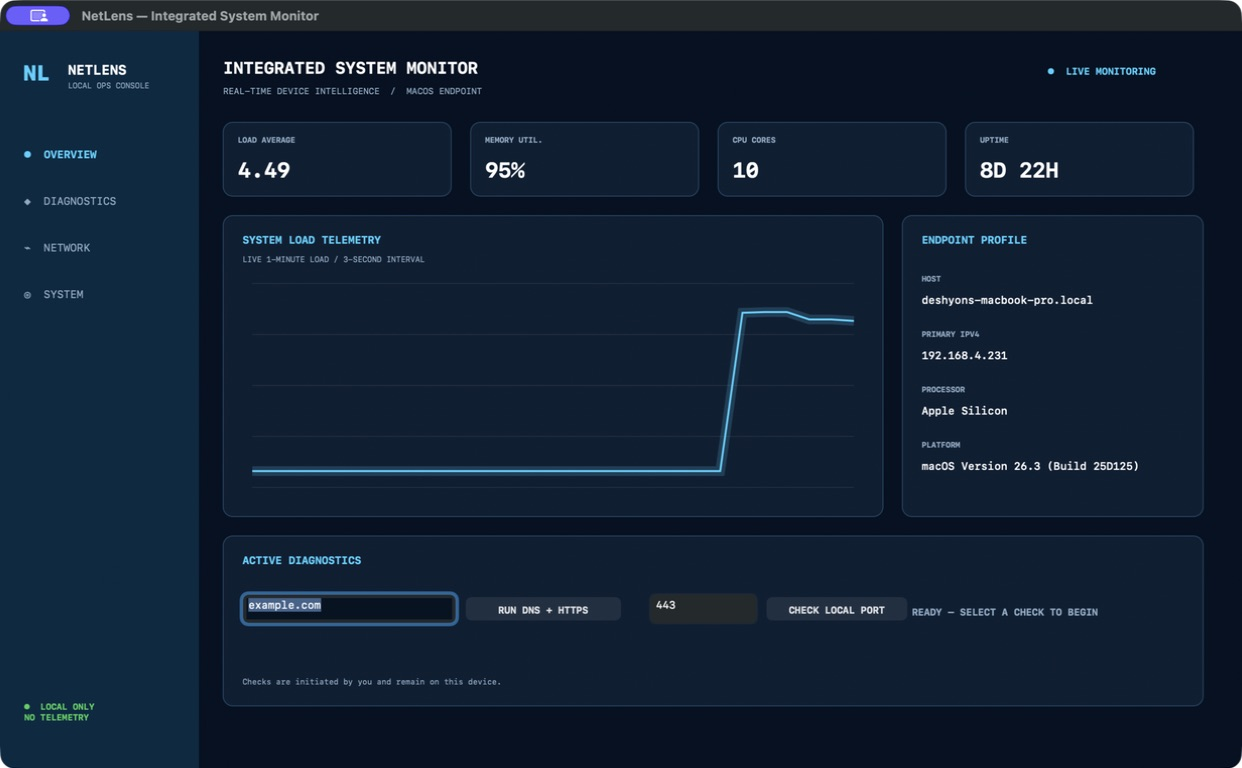
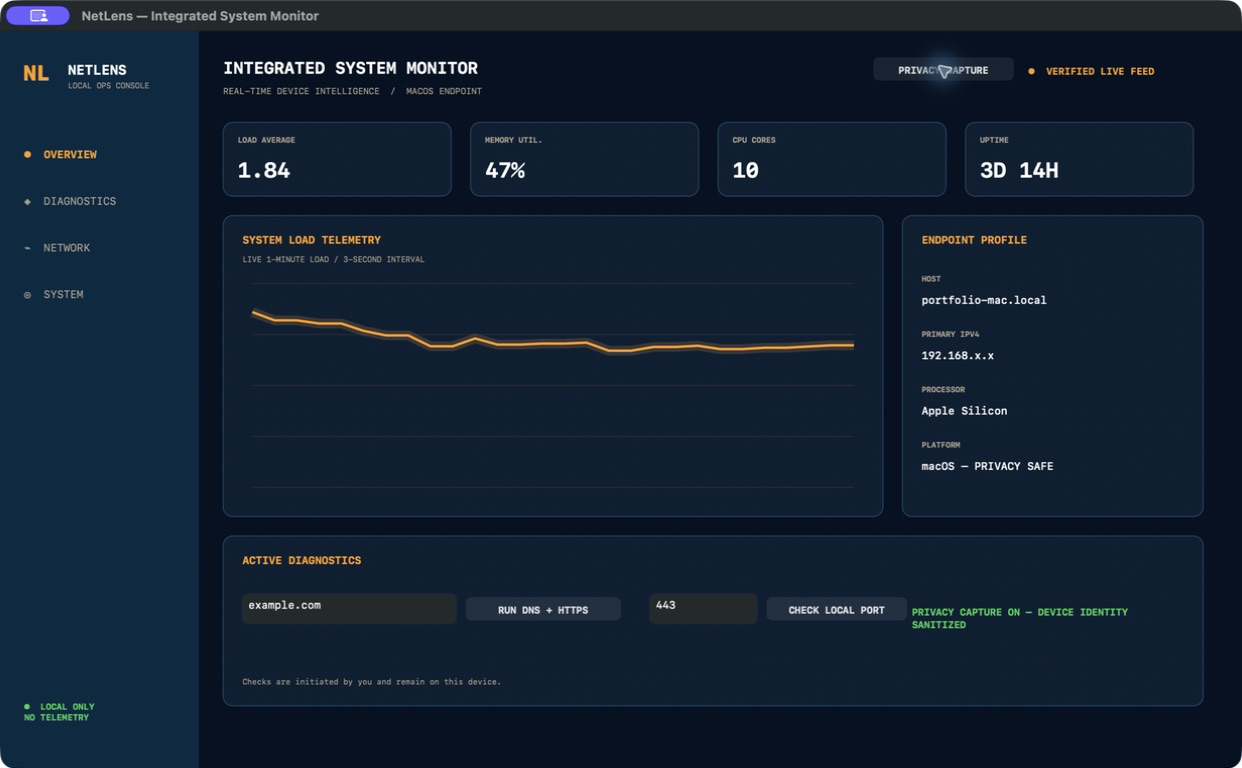
Polish NetLens with secure amber boot and safe captures

diff --git a/Sources/NetLens/main.m b/Sources/NetLens/main.m
@@ -30,11 +30,48 @@ static double MemoryUsage(void) {
     return MIN(used / (double)[NSProcessInfo processInfo].physicalMemory, 1.0);
 }
 
+@interface BootView : NSView
+@property NSImage *image;
+@property CGFloat progress;
+@property NSString *phase;
+@end
+
+@implementation BootView
+- (BOOL)isFlipped { return YES; }
+- (instancetype)initWithFrame:(NSRect)frame {
+    if ((self=[super initWithFrame:frame])) {
+        NSString *path=[[NSBundle mainBundle] pathForResource:@"boot-core" ofType:@"png"];
+        _image=[[NSImage alloc] initWithContentsOfFile:path];
+        _phase=@"INITIALIZING SECURE CORE";
+    }
+    return self;
+}
+- (void)drawRect:(NSRect)dirty {
+    [[NSColor blackColor] setFill]; NSRectFill(self.bounds);
+    if(self.image) {
+        [self.image drawInRect:self.bounds fromRect:NSZeroRect operation:NSCompositingOperationSourceOver fraction:.72 respectFlipped:YES hints:@{NSImageHintInterpolation:@(NSImageInterpolationHigh)}];
+    }
+    NSGradient *shade=[[NSGradient alloc] initWithStartingColor:[NSColor colorWithWhite:0 alpha:.12] endingColor:[NSColor colorWithWhite:0 alpha:.78]];
+    [shade drawInRect:self.bounds angle:90];
+    NSColor *amber=[NSColor colorWithCalibratedRed:1 green:.55 blue:.08 alpha:1];
+    NSDictionary *title=@{NSFontAttributeName:[NSFont monospacedSystemFontOfSize:34 weight:NSFontWeightBold],NSForegroundColorAttributeName:NSColor.whiteColor,NSKernAttributeName:@4};
+    [@"NETLENS" drawAtPoint:NSMakePoint(62,55) withAttributes:title];
+    NSDictionary *sub=@{NSFontAttributeName:[NSFont monospacedSystemFontOfSize:10 weight:NSFontWeightBold],NSForegroundColorAttributeName:amber,NSKernAttributeName:@2};
+    [@"ENDPOINT INTELLIGENCE SYSTEM" drawAtPoint:NSMakePoint(65,101) withAttributes:sub];
+    NSDictionary *phase=@{NSFontAttributeName:[NSFont monospacedSystemFontOfSize:11 weight:NSFontWeightMedium],NSForegroundColorAttributeName:NSColor.whiteColor};
+    [self.phase drawAtPoint:NSMakePoint(65,self.bounds.size.height-96) withAttributes:phase];
+    NSRect track=NSMakeRect(65,self.bounds.size.height-58,self.bounds.size.width-130,3);
+    [[NSColor colorWithWhite:1 alpha:.15] setFill]; NSRectFill(track);
+    [amber setFill]; NSRectFill(NSMakeRect(track.origin.x,track.origin.y,track.size.width*self.progress,3));
+}
+@end
+
 @interface DashboardView : NSView
 @property NSMutableArray<NSNumber *> *history;
 @property NSDictionary<NSString *, NSString *> *reading;
 @property NSString *status;
 @property BOOL statusGood;
+@property BOOL demoMode;
 @end
 
 @implementation DashboardView
@@ -59,8 +96,8 @@ static double MemoryUsage(void) {
 - (void)drawRect:(NSRect)dirty {
     NSColor *bg=[NSColor colorWithCalibratedRed:.025 green:.055 blue:.10 alpha:1];
     NSColor *panel=[NSColor colorWithCalibratedRed:.025 green:.12 blue:.20 alpha:1];
-    NSColor *cyan=[NSColor colorWithCalibratedRed:.20 green:.78 blue:1 alpha:1];
-    NSColor *muted=[NSColor colorWithCalibratedRed:.48 green:.61 blue:.72 alpha:1];
+    NSColor *cyan=[NSColor colorWithCalibratedRed:1 green:.55 blue:.08 alpha:1];
+    NSColor *muted=[NSColor colorWithCalibratedRed:.62 green:.57 blue:.49 alpha:1];
     [bg setFill]; NSRectFill(self.bounds);
     [panel setFill]; NSRectFill(NSMakeRect(0,0,205,self.bounds.size.height));
     [self label:@"NL" rect:NSMakeRect(24,30,45,28) size:22 color:cyan weight:NSFontWeightBlack];
@@ -72,7 +109,7 @@ static double MemoryUsage(void) {
 
     [self label:@"INTEGRATED SYSTEM MONITOR" rect:NSMakeRect(230,28,390,25) size:17 color:NSColor.whiteColor weight:NSFontWeightBold];
     [self label:@"REAL-TIME DEVICE INTELLIGENCE  /  MACOS ENDPOINT" rect:NSMakeRect(230,56,430,18) size:9 color:muted weight:NSFontWeightRegular];
-    [self label:@"●  LIVE MONITORING" rect:NSMakeRect(1080,35,170,20) size:10 color:cyan weight:NSFontWeightBold];
+    [self label:@"●  VERIFIED LIVE FEED" rect:NSMakeRect(1060,35,190,20) size:10 color:cyan weight:NSFontWeightBold];
 
     NSArray *titles=@[@"LOAD AVERAGE",@"MEMORY UTIL.",@"CPU CORES",@"UPTIME"];
     NSArray *keys=@[@"load",@"memory",@"cores",@"uptime"];
@@ -86,13 +123,13 @@ static double MemoryUsage(void) {
     [self label:@"SYSTEM LOAD TELEMETRY" rect:NSMakeRect(250,208,300,18) size:11 color:cyan weight:NSFontWeightBold];
     [self label:@"LIVE 1-MINUTE LOAD / 3-SECOND INTERVAL" rect:NSMakeRect(250,230,320,15) size:8 color:muted weight:NSFontWeightRegular];
     NSRect plot=NSMakeRect(260,260,620,210);
-    [[NSColor colorWithWhite:1 alpha:.07] setStroke];
+    [[NSColor colorWithCalibratedRed:1 green:.55 blue:.08 alpha:.11] setStroke];
     for(int i=0;i<5;i++){ NSBezierPath *g=[NSBezierPath bezierPath]; CGFloat y=plot.origin.y+i*plot.size.height/4; [g moveToPoint:NSMakePoint(plot.origin.x,y)]; [g lineToPoint:NSMakePoint(NSMaxX(plot),y)]; [g stroke]; }
     double max=1; for(NSNumber *n in self.history) max=MAX(max,n.doubleValue);
     NSBezierPath *line=[NSBezierPath bezierPath];
     for(int i=0;i<self.history.count;i++){ CGFloat x=plot.origin.x+i*plot.size.width/(self.history.count-1); CGFloat y=NSMaxY(plot)-self.history[i].doubleValue/max*plot.size.height*.78-plot.size.height*.08; if(i==0)[line moveToPoint:NSMakePoint(x,y)];else[line lineToPoint:NSMakePoint(x,y)]; }
     [[cyan colorWithAlphaComponent:.18] setStroke]; line.lineWidth=10; [line stroke];
-    [cyan setStroke]; line.lineWidth=2; [line stroke];
+    [cyan setStroke]; line.lineWidth=2.5; [line stroke];
 
     NSRect profile=NSMakeRect(930,190,310,310); [self card:profile];
     [self label:@"ENDPOINT PROFILE" rect:NSMakeRect(950,208,250,18) size:11 color:cyan weight:NSFontWeightBold];
@@ -110,6 +147,7 @@ static double MemoryUsage(void) {
 @interface AppDelegate : NSObject <NSApplicationDelegate>
 @property NSWindow *window;
 @property DashboardView *dashboard;
+@property BootView *boot;
 @property NSTextField *domainInput;
 @property NSTextField *portInput;
 @property NSTimer *timer;
@@ -123,24 +161,49 @@ static double MemoryUsage(void) {
 }
 - (NSButton *)button:(NSString *)title frame:(NSRect)frame action:(SEL)action {
     NSButton *button=[NSButton buttonWithTitle:title target:self action:action]; button.frame=frame;
-    button.font=[NSFont monospacedSystemFontOfSize:10 weight:NSFontWeightBold]; button.contentTintColor=[NSColor colorWithCalibratedRed:.2 green:.78 blue:1 alpha:1]; return button;
+    button.font=[NSFont monospacedSystemFontOfSize:10 weight:NSFontWeightBold]; button.contentTintColor=[NSColor colorWithCalibratedRed:1 green:.55 blue:.08 alpha:1]; return button;
 }
 - (void)applicationDidFinishLaunching:(NSNotification *)note {
+    self.boot=[[BootView alloc] initWithFrame:NSMakeRect(0,0,1280,760)];
+    self.window=[[NSWindow alloc] initWithContentRect:self.boot.bounds styleMask:NSWindowStyleMaskTitled|NSWindowStyleMaskClosable|NSWindowStyleMaskMiniaturizable|NSWindowStyleMaskResizable backing:NSBackingStoreBuffered defer:NO];
+    self.window.title=@"NetLens — Secure Boot"; self.window.contentView=self.boot; self.window.minSize=NSMakeSize(1100,700);
+    [self.window center]; [self.window makeKeyAndOrderFront:nil]; [NSApp activateIgnoringOtherApps:YES];
+    NSArray *phases=@[@"AUTHENTICATING LOCAL RUNTIME",@"MAPPING SYSTEM TELEMETRY",@"ESTABLISHING PRIVATE CONSOLE"];
+    for(int i=0;i<3;i++) dispatch_after(dispatch_time(DISPATCH_TIME_NOW,(i+1)*650*NSEC_PER_MSEC),dispatch_get_main_queue(),^{self.boot.progress=(i+1)/3.0;self.boot.phase=phases[i];[self.boot setNeedsDisplay:YES];});
+    dispatch_after(dispatch_time(DISPATCH_TIME_NOW,3800*NSEC_PER_MSEC),dispatch_get_main_queue(),^{[self showDashboard];});
+}
+- (void)showDashboard {
     self.dashboard=[[DashboardView alloc] initWithFrame:NSMakeRect(0,0,1280,760)];
-    self.window=[[NSWindow alloc] initWithContentRect:self.dashboard.bounds styleMask:NSWindowStyleMaskTitled|NSWindowStyleMaskClosable|NSWindowStyleMaskMiniaturizable|NSWindowStyleMaskResizable backing:NSBackingStoreBuffered defer:NO];
-    self.window.title=@"NetLens — Integrated System Monitor"; self.window.contentView=self.dashboard; self.window.minSize=NSMakeSize(1100,700);
+    self.window.title=@"NetLens — Integrated System Monitor"; self.window.contentView=self.dashboard;
     self.domainInput=[self input:@"example.com" frame:NSMakeRect(250,580,220,30)]; [self.dashboard addSubview:self.domainInput];
     [self.dashboard addSubview:[self button:@"RUN DNS + HTTPS" frame:NSMakeRect(480,580,160,30) action:@selector(checkDomain)]];
     self.portInput=[self input:@"443" frame:NSMakeRect(670,580,110,30)]; [self.dashboard addSubview:self.portInput];
     [self.dashboard addSubview:[self button:@"CHECK LOCAL PORT" frame:NSMakeRect(790,580,145,30) action:@selector(checkPort)]];
+    [self.dashboard addSubview:[self button:@"PRIVACY CAPTURE" frame:NSMakeRect(900,25,145,28) action:@selector(togglePrivacy)]];
+    [self.dashboard addSubview:[self button:@"REPLAY BOOT" frame:NSMakeRect(755,25,130,28) action:@selector(replayBoot)]];
     [self refresh]; self.timer=[NSTimer scheduledTimerWithTimeInterval:3 target:self selector:@selector(refresh) userInfo:nil repeats:YES];
-    [self.window center]; [self.window makeKeyAndOrderFront:nil]; [NSApp activateIgnoringOtherApps:YES];
+}
+- (void)replayBoot {
+    self.boot=[[BootView alloc] initWithFrame:NSMakeRect(0,0,1280,760)];
+    self.window.title=@"NetLens — Secure Boot"; self.window.contentView=self.boot;
+    NSArray *phases=@[@"AUTHENTICATING LOCAL RUNTIME",@"MAPPING SYSTEM TELEMETRY",@"ESTABLISHING PRIVATE CONSOLE"];
+    for(int i=0;i<3;i++) dispatch_after(dispatch_time(DISPATCH_TIME_NOW,(i+1)*650*NSEC_PER_MSEC),dispatch_get_main_queue(),^{self.boot.progress=(i+1)/3.0;self.boot.phase=phases[i];[self.boot setNeedsDisplay:YES];});
+    dispatch_after(dispatch_time(DISPATCH_TIME_NOW,3800*NSEC_PER_MSEC),dispatch_get_main_queue(),^{self.window.title=@"NetLens — Integrated System Monitor";self.window.contentView=self.dashboard;});
 }
 - (void)refresh {
     double loads[3]={0}; getloadavg(loads,3); NSProcessInfo *p=NSProcessInfo.processInfo;
     NSInteger hours=(NSInteger)p.systemUptime/3600;
-    self.dashboard.reading=@{@"load":[NSString stringWithFormat:@"%.2f",loads[0]],@"memory":[NSString stringWithFormat:@"%d%%",(int)(MemoryUsage()*100)],@"cores":[NSString stringWithFormat:@"%ld",(long)p.processorCount],@"uptime":hours>24?[NSString stringWithFormat:@"%ldD %ldH",(long)hours/24,(long)hours%24]:[NSString stringWithFormat:@"%ldH",(long)hours],@"host":p.hostName,@"ip":PrimaryIPv4(),@"cpu":@"Apple Silicon",@"platform":[NSString stringWithFormat:@"macOS %@",p.operatingSystemVersionString]};
+    BOOL demo=self.dashboard.demoMode||[NSProcessInfo.processInfo.arguments containsObject:@"--demo"];
+    NSString *host=demo?@"portfolio-mac.local":p.hostName, *ip=demo?@"192.168.x.x":PrimaryIPv4();
+    self.dashboard.reading=@{@"load":demo?@"1.84":[NSString stringWithFormat:@"%.2f",loads[0]],@"memory":demo?@"47%":[NSString stringWithFormat:@"%d%%",(int)(MemoryUsage()*100)],@"cores":[NSString stringWithFormat:@"%ld",(long)p.processorCount],@"uptime":demo?@"3D 14H":(hours>24?[NSString stringWithFormat:@"%ldD %ldH",(long)hours/24,(long)hours%24]:[NSString stringWithFormat:@"%ldH",(long)hours]),@"host":host,@"ip":ip,@"cpu":@"Apple Silicon",@"platform":demo?@"macOS — PRIVACY SAFE":[NSString stringWithFormat:@"macOS %@",p.operatingSystemVersionString]};
+    if(demo&&[self.dashboard.status hasPrefix:@"READY"]){self.dashboard.status=@"DEMO CAPTURE — DEVICE IDENTITY SANITIZED";self.dashboard.statusGood=YES;}
     [self.dashboard.history addObject:@(loads[0])]; if(self.dashboard.history.count>28)[self.dashboard.history removeObjectAtIndex:0]; [self.dashboard setNeedsDisplay:YES];
+}
+- (void)togglePrivacy {
+    self.dashboard.demoMode=!self.dashboard.demoMode;
+    self.dashboard.status=self.dashboard.demoMode?@"PRIVACY CAPTURE ON — DEVICE IDENTITY SANITIZED":@"LIVE MODE RESTORED — LOCAL VALUES ACTIVE";
+    self.dashboard.statusGood=YES;
+    [self refresh];
 }
 - (void)setStatus:(NSString *)status good:(BOOL)good { dispatch_async(dispatch_get_main_queue(),^{ self.dashboard.status=status; self.dashboard.statusGood=good; [self.dashboard setNeedsDisplay:YES]; }); }
 - (void)probeHost:(NSString *)host port:(NSString *)port label:(NSString *)label {
@@ -169,8 +232,38 @@ static double MemoryUsage(void) {
 - (BOOL)applicationShouldTerminateAfterLastWindowClosed:(NSApplication *)sender{return YES;}
 @end
 
+static void WriteViewPNG(NSView *view, NSString *path) {
+    NSBitmapImageRep *rep=[view bitmapImageRepForCachingDisplayInRect:view.bounds];
+    [view cacheDisplayInRect:view.bounds toBitmapImageRep:rep];
+    NSData *png=[rep representationUsingType:NSBitmapImageFileTypePNG properties:@{}];
+    [png writeToFile:path atomically:YES];
+}
+
+static int CapturePortfolioScreenshots(NSString *directory) {
+    [[NSFileManager defaultManager] createDirectoryAtPath:directory withIntermediateDirectories:YES attributes:nil error:nil];
+    BootView *boot=[[BootView alloc] initWithFrame:NSMakeRect(0,0,1280,760)];
+    boot.progress=.66; boot.phase=@"MAPPING SYSTEM TELEMETRY";
+    WriteViewPNG(boot,[directory stringByAppendingPathComponent:@"netlens-boot.png"]);
+
+    DashboardView *dash=[[DashboardView alloc] initWithFrame:NSMakeRect(0,0,1280,760)];
+    dash.demoMode=YES; dash.statusGood=YES; dash.status=@"DEMO CAPTURE — DEVICE IDENTITY SANITIZED";
+    dash.reading=@{@"load":@"1.84",@"memory":@"47%",@"cores":@"10",@"uptime":@"3D 14H",@"host":@"portfolio-mac.local",@"ip":@"192.168.x.x",@"cpu":@"Apple Silicon",@"platform":@"macOS — PRIVACY SAFE"};
+    [dash.history removeAllObjects];
+    NSArray *samples=@[@1.1,@1.2,@1.0,@1.4,@1.6,@1.3,@1.8,@2.1,@1.7,@1.5,@1.9,@2.4,@2.2,@2.0,@2.6,@2.1,@1.8,@2.3,@2.7,@2.4,@2.9,@2.5,@2.2,@2.6,@3.0,@2.7,@2.4,@2.8];
+    [dash.history addObjectsFromArray:samples];
+    NSTextField *domain=[[NSTextField alloc] initWithFrame:NSMakeRect(250,580,220,30)]; domain.stringValue=@"example.com"; domain.font=[NSFont monospacedSystemFontOfSize:11 weight:NSFontWeightRegular]; domain.textColor=NSColor.whiteColor; domain.backgroundColor=[NSColor colorWithCalibratedRed:.025 green:.06 blue:.1 alpha:1]; [dash addSubview:domain];
+    NSButton *dns=[NSButton buttonWithTitle:@"RUN DNS + HTTPS" target:nil action:nil]; dns.frame=NSMakeRect(480,580,160,30); dns.font=[NSFont monospacedSystemFontOfSize:10 weight:NSFontWeightBold]; dns.contentTintColor=[NSColor colorWithCalibratedRed:1 green:.55 blue:.08 alpha:1]; [dash addSubview:dns];
+    NSTextField *port=[[NSTextField alloc] initWithFrame:NSMakeRect(670,580,110,30)]; port.stringValue=@"443"; port.font=domain.font; port.textColor=domain.textColor; port.backgroundColor=domain.backgroundColor; [dash addSubview:port];
+    NSButton *check=[NSButton buttonWithTitle:@"CHECK LOCAL PORT" target:nil action:nil]; check.frame=NSMakeRect(790,580,145,30); check.font=dns.font; check.contentTintColor=dns.contentTintColor; [dash addSubview:check];
+    NSButton *privacy=[NSButton buttonWithTitle:@"PRIVACY CAPTURE" target:nil action:nil]; privacy.frame=NSMakeRect(900,25,145,28); privacy.font=dns.font; privacy.contentTintColor=dns.contentTintColor; [dash addSubview:privacy];
+    WriteViewPNG(dash,[directory stringByAppendingPathComponent:@"netlens-app.png"]);
+    printf("Privacy-safe screenshots written to %s\n",directory.UTF8String);
+    return 0;
+}
+
 int main(int argc,const char *argv[]){
     @autoreleasepool {
+        if(argc>2&&strcmp(argv[1],"--capture")==0){[NSApplication sharedApplication];return CapturePortfolioScreenshots([NSString stringWithUTF8String:argv[2]]);}
         if(argc>1&&strcmp(argv[1],"--self-test")==0){NSProcessInfo *p=NSProcessInfo.processInfo;if(p.processorCount<1||p.hostName.length==0)return 1;printf("NetLens self-test passed\nHost: %s | CPU cores: %ld | IPv4: %s\n",p.hostName.UTF8String,(long)p.processorCount,PrimaryIPv4().UTF8String);return 0;}
         NSApplication *app=NSApplication.sharedApplication; AppDelegate *delegate=[AppDelegate new]; app.delegate=delegate; [app setActivationPolicy:NSApplicationActivationPolicyRegular]; [app run];
     } return 0;

diff --git a/README.md b/README.md
@@ -2,13 +2,16 @@
 
 NetLens is a native, one-person IT operations app that turns live Mac system and network data into a compact integrated monitoring console. It is a real `.app`—not a website, template, hosted demo, or account-based service.
 
-![NetLens native macOS app](docs/netlens-app.png)
+![NetLens secure boot sequence](docs/netlens-boot.png)
+
+![NetLens native macOS app in privacy-safe capture mode](docs/netlens-app.png)
 
 ## What it does right now
 
 - Displays live CPU load, physical-memory use, core count, and system uptime
 - Identifies the Mac, processor, operating system, and primary IPv4 address
 - Draws a rolling system-load telemetry chart every three seconds
+- Opens with an animated, cinematic secure-core boot sequence
 - Tests a public domain over DNS/TCP port 443
 - Checks whether a service is listening on any local TCP port
 - Runs entirely on the Mac with no account, database, analytics, or sample data
@@ -35,13 +38,13 @@ Requirements: macOS 13+ and Apple Command Line Tools.
 The launchable application is created at:
 
 ```text
-dist/NetLens.app
+dist/NetLensCore.app
 ```
 
 Double-click `NetLens.app`, or run:
 
 ```bash
-open dist/NetLens.app
+open dist/NetLensCore.app
 ```
 
 ## Verify it
@@ -51,6 +54,24 @@ open dist/NetLens.app
 ```
 
 This builds the application, runs its live system-probe self-test, verifies the code signature, and validates the bundle metadata.
+
+## Privacy-safe screenshots
+
+Run NetLens with the `--demo` flag whenever capturing portfolio images:
+
+```bash
+open dist/NetLensCore.app --args --demo
+```
+
+Demo mode changes only what is displayed: hostname, IPv4 address, uptime, memory, load, and operating-system build are replaced with clearly labeled synthetic values. Normal launches always show real live data.
+
+For deterministic repository screenshots that never inspect the host at all:
+
+```bash
+dist/NetLensCore.app/Contents/MacOS/NetLensCore --capture docs
+```
+
+This renders the real native boot and dashboard views entirely from an embedded synthetic dataset.
 
 ## Use the diagnostics
 
@@ -63,7 +84,7 @@ Port checks are intentionally restricted to `127.0.0.1`. NetLens is a diagnostic
 ## Project structure
 
 ```text
-NetLens.app
+NetLensCore.app
 ├── Sources/NetLens/main.m       Native UI and system/network probes
 ├── Resources/                  App metadata and icon
 ├── scripts/build_app.sh        Reproducible app-bundle build
